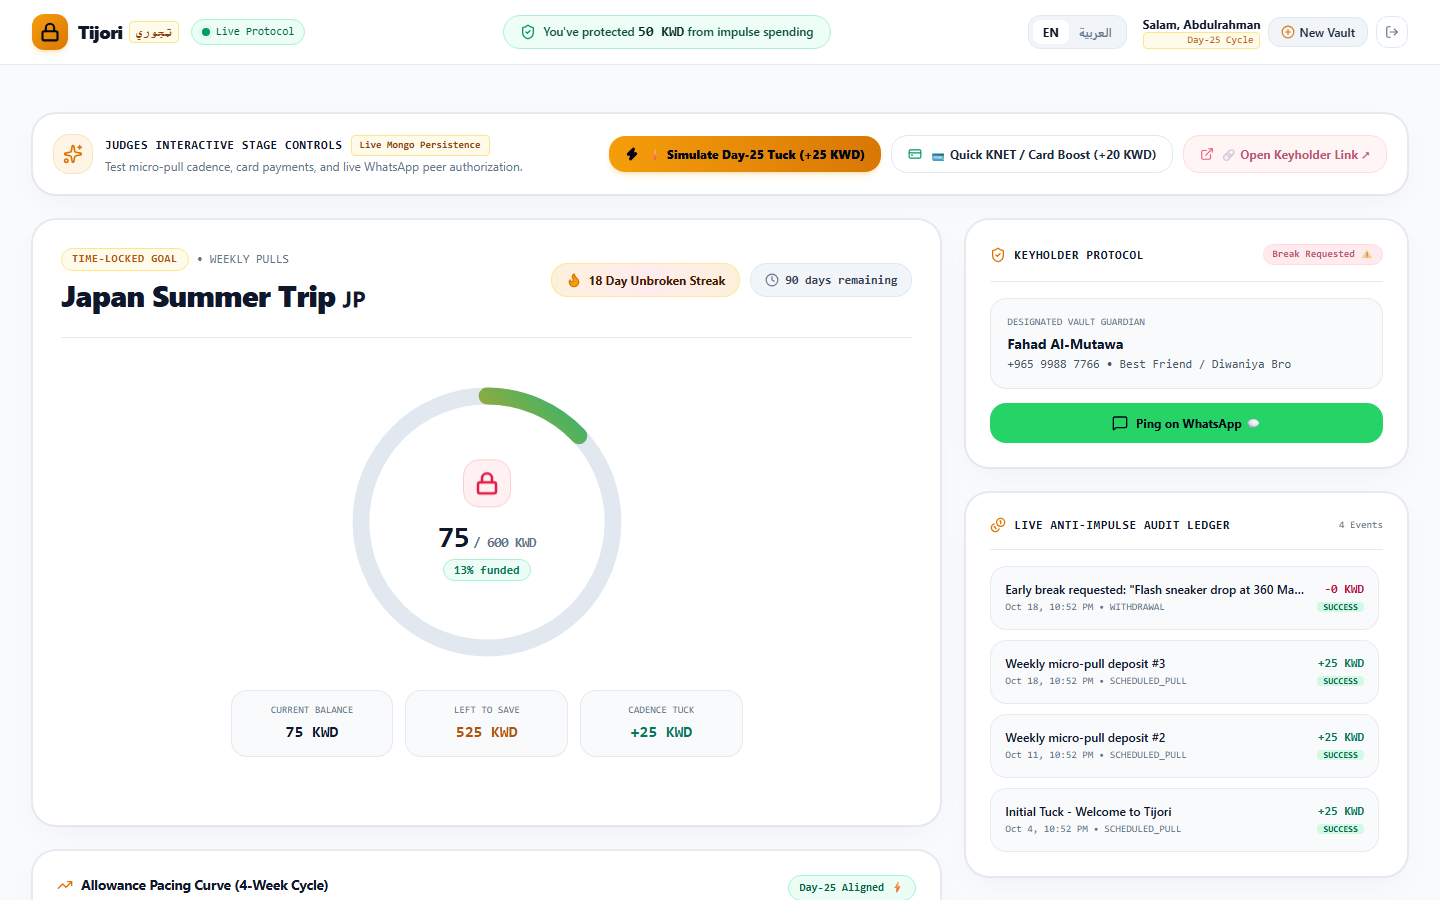
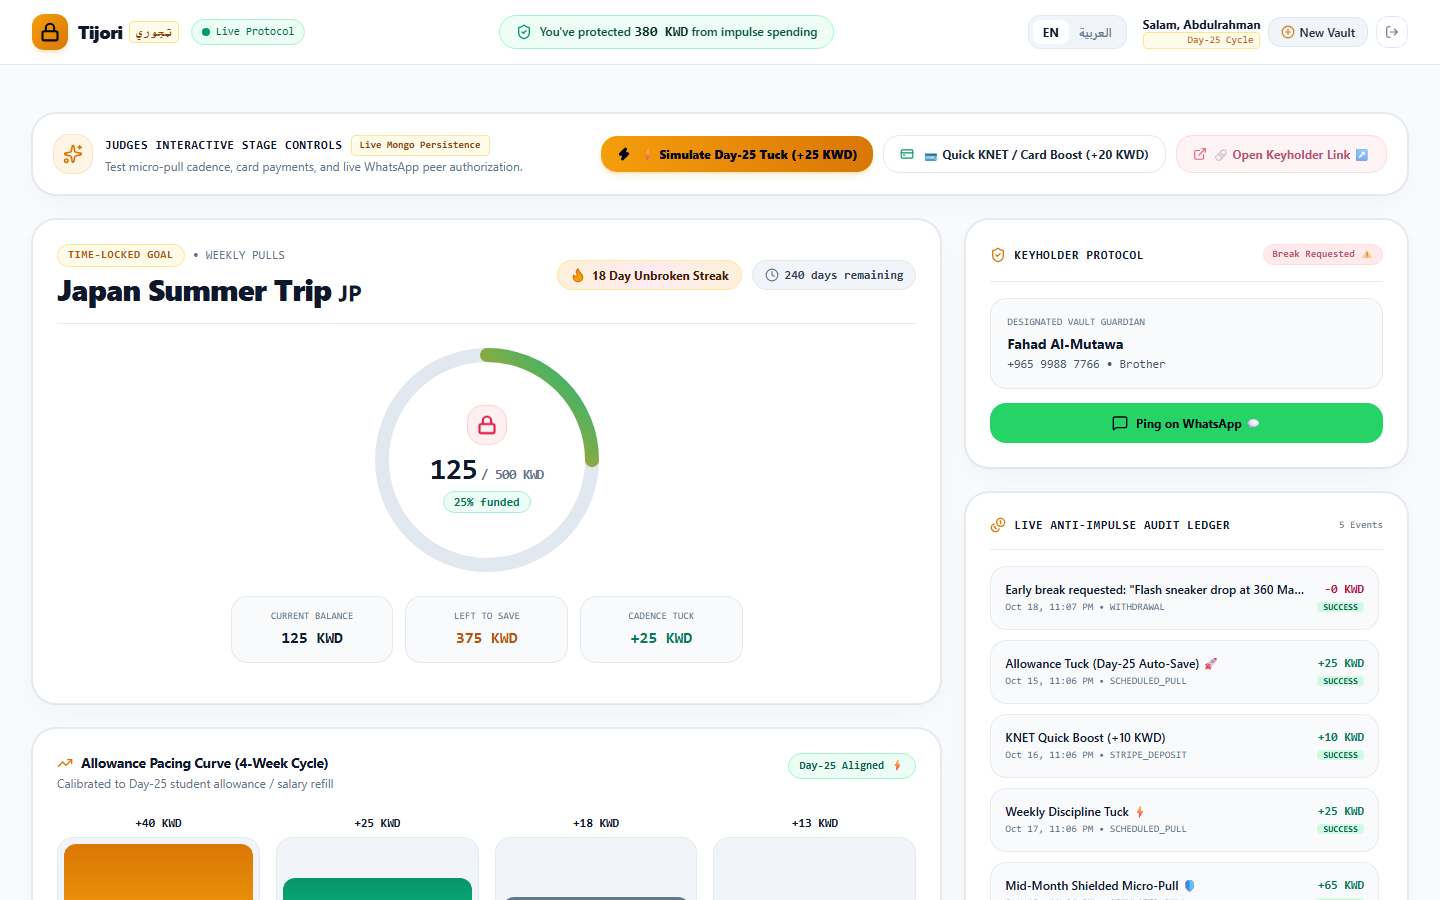
feat(ui): complete desktop visual audit, optimize 1440x900 proportions, and update Gemini model

diff --git a/app/dashboard/page.tsx b/app/dashboard/page.tsx
@@ -684,10 +684,10 @@ function DashboardContent() {
           {/* LEFT COLUMN: 65% VAULT CORE (lg:col-span-8) */}
           <div className="lg:col-span-8 space-y-6">
             {/* Header: Goal title, Time-lock countdown pill, and Gamified Streak Badge */}
-            <div className="p-6 sm:p-7 rounded-3xl bg-white border border-slate-200/90 shadow-card">
-              <div className="flex flex-col sm:flex-row sm:items-center justify-between gap-4 pb-6 border-b border-slate-200/90">
+            <div className="p-5 sm:p-6 rounded-3xl bg-white border border-slate-200/90 shadow-card">
+              <div className="flex flex-col sm:flex-row sm:items-center justify-between gap-3 pb-4 border-b border-slate-200/90">
                 <div>
-                  <div className="flex items-center gap-2 mb-1.5">
+                  <div className="flex items-center gap-2 mb-1">
                     <span className="text-[11px] font-mono font-bold uppercase tracking-wider text-amber-700 bg-amber-50 px-2.5 py-0.5 rounded-full border border-amber-200">
                       {t.targetLocked}
                     </span>
@@ -702,7 +702,7 @@ function DashboardContent() {
 
                 <div className="flex items-center gap-2.5 flex-wrap">
                   {/* Gamified Streak Badge: 🔥 [streakCount]-Day Unbroken Streak */}
-                  <div className="inline-flex items-center gap-1.5 px-3.5 py-2 rounded-2xl bg-gradient-to-r from-amber-500/15 via-rose-500/10 to-amber-500/15 border border-amber-200/80 text-amber-950 font-bold text-xs shadow-xs">
+                  <div className="inline-flex items-center gap-1.5 px-3 py-1.5 rounded-2xl bg-gradient-to-r from-amber-500/15 via-rose-500/10 to-amber-500/15 border border-amber-200/80 text-amber-950 font-bold text-xs shadow-xs">
                     <Flame className="w-4 h-4 text-amber-600 fill-amber-500" />
                     <span>
                       {vault.streakCount || 18} {t.unbrokenStreak}
@@ -710,7 +710,7 @@ function DashboardContent() {
                   </div>
 
                   {/* Time-lock countdown pill */}
-                  <div className="inline-flex items-center gap-1.5 px-3.5 py-2 rounded-2xl bg-slate-100 border border-slate-200 text-slate-700 font-semibold text-xs font-mono">
+                  <div className="inline-flex items-center gap-1.5 px-3 py-1.5 rounded-2xl bg-slate-100 border border-slate-200 text-slate-700 font-semibold text-xs font-mono">
                     <Clock className="w-3.5 h-3.5 text-slate-500" />
                     <span>
                       {daysRemaining} {t.daysRemaining}
@@ -720,8 +720,8 @@ function DashboardContent() {
               </div>
 
               {/* PHYSICAL VAULT DIAL COMPONENT */}
-              <div className="py-8 sm:py-10 flex flex-col items-center justify-center relative">
-                <div className="relative w-64 h-64 sm:w-72 sm:h-72 flex items-center justify-center">
+              <div className="py-3 sm:py-4 flex flex-col items-center justify-center relative">
+                <div className="relative w-52 h-52 sm:w-60 sm:h-60 flex items-center justify-center">
                   <svg className="w-full h-full -rotate-90 transform" viewBox="0 0 240 240">
                     <defs>
                       <linearGradient id="honeyToEmerald" x1="0%" y1="0%" x2="100%" y2="100%">
@@ -762,7 +762,7 @@ function DashboardContent() {
                     {/* Animated Padlock Glyph */}
                     <div
                       className={cn(
-                        "w-12 h-12 rounded-2xl flex items-center justify-center mb-2 shadow-xs transition-transform duration-300",
+                        "w-10 h-10 rounded-2xl flex items-center justify-center mb-1 shadow-xs transition-transform duration-300",
                         vault.status === "UNLOCK_PENDING"
                           ? "bg-rose-50 border border-rose-200 text-rose-600 animate-bounce"
                           : vault.status === "UNLOCKED"
@@ -771,9 +771,9 @@ function DashboardContent() {
                       )}
                     >
                       {vault.status === "UNLOCKED" ? (
-                        <Unlock className="w-6 h-6 stroke-[2.5]" />
+                        <Unlock className="w-5 h-5 stroke-[2.5]" />
                       ) : (
-                        <Lock className="w-6 h-6 stroke-[2.5]" />
+                        <Lock className="w-5 h-5 stroke-[2.5]" />
                       )}
                     </div>
 
@@ -793,7 +793,7 @@ function DashboardContent() {
                 </div>
 
                 {/* Sub-Metrics Cards below Dial */}
-                <div className="grid grid-cols-3 gap-3 w-full max-w-lg mt-6">
+                <div className="grid grid-cols-3 gap-3 w-full max-w-lg mt-4">
                   <div className="p-3 rounded-2xl bg-slate-50 border border-slate-200/90 text-center">
                     <span className="text-[10px] font-mono uppercase text-slate-500 font-medium block">
                       {t.currentBalance}
@@ -825,8 +825,8 @@ function DashboardContent() {
             </div>
 
             {/* ALLOWANCE PACING 4-WEEK BAR CHART */}
-            <div className="p-6 rounded-3xl bg-white border border-slate-200/90 shadow-card">
-              <div className="flex flex-col sm:flex-row sm:items-center justify-between gap-2 mb-6">
+            <div className="p-5 sm:p-6 rounded-3xl bg-white border border-slate-200/90 shadow-card">
+              <div className="flex flex-col sm:flex-row sm:items-center justify-between gap-2 mb-4">
                 <div>
                   <h3 className="text-sm font-bold text-slate-900 tracking-tight flex items-center gap-2">
                     <TrendingUp className="w-4 h-4 text-amber-600" />
@@ -840,13 +840,13 @@ function DashboardContent() {
               </div>
 
               {/* 4-Week Dynamic SVG/Visual Bars */}
-              <div className="grid grid-cols-4 gap-3 sm:gap-4 items-end pt-4 pb-2">
+              <div className="grid grid-cols-4 gap-3 sm:gap-4 items-end pt-2 pb-1">
                 {pacingWeeks.map((item) => (
                   <div key={item.week} className="flex flex-col items-center group">
-                    <span className="text-xs font-mono font-bold text-slate-900 mb-2 tabular-nums">
+                    <span className="text-xs font-mono font-bold text-slate-900 mb-1.5 tabular-nums">
                       +{item.amount} KWD
                     </span>
-                    <div className="w-full bg-slate-100 rounded-2xl h-36 flex items-end p-1.5 border border-slate-200/80">
+                    <div className="w-full bg-slate-100 rounded-2xl h-28 flex items-end p-1.5 border border-slate-200/80">
                       <div
                         style={{ height: `${item.percent}%` }}
                         className={cn(
@@ -855,7 +855,7 @@ function DashboardContent() {
                         )}
                       />
                     </div>
-                    <div className="text-center mt-3">
+                    <div className="text-center mt-2.5">
                       <span className="text-[11px] font-extrabold text-slate-900 block">
                         {t.week} {item.week}
                       </span>
@@ -872,7 +872,7 @@ function DashboardContent() {
             </div>
 
             {/* FRICTION TRIGGER: 5% Discipline Tax Warning + Button */}
-            <div className="p-5 sm:p-6 rounded-3xl bg-rose-50/70 border border-rose-200 shadow-xs flex flex-col sm:flex-row sm:items-center justify-between gap-4">
+            <div className="p-4 sm:p-5 rounded-3xl bg-rose-50/70 border border-rose-200 shadow-xs flex flex-col sm:flex-row sm:items-center justify-between gap-4">
               <div className="flex items-start gap-3">
                 <div className="w-9 h-9 rounded-2xl bg-rose-100 border border-rose-200 flex items-center justify-center shrink-0 mt-0.5">
                   <AlertTriangle className="w-5 h-5 text-rose-600" />

diff --git a/app/api/vault/route.ts b/app/api/vault/route.ts
@@ -6,22 +6,27 @@ import { getCurrentUser } from "@/lib/auth";
 export async function GET(req: NextRequest) {
   try {
     await connectToDatabase();
+    const { User } = await import("@/models/User");
     const session = await getCurrentUser(req);
 
-    let query: any = {};
+    let vault = null;
+    let user = null;
+
     if (session?.userId) {
-      query = { userId: session.userId };
+      vault = await Vault.findOne({ userId: session.userId }).sort({ createdAt: -1 });
+      user = await User.findById(session.userId).select("-password");
     }
 
-    // Find the most recent active or created vault for this user (or global latest fallback)
-    let vault = await Vault.findOne(query).sort({ createdAt: -1 });
-
-    // Fallback to any recent vault if user has none yet
-    if (!vault && session?.userId) {
-      vault = await Vault.findOne().sort({ createdAt: -1 });
+    // Default to the official demo user vault if not logged in
+    if (!vault) {
+      const demoUser = await User.findOne({ email: "demo@tijori.app" });
+      if (demoUser) {
+        vault = await Vault.findOne({ userId: demoUser._id }).sort({ createdAt: -1 });
+        if (!user) user = demoUser;
+      }
     }
 
-    // Auto-seed default demo vault if none exists in the database
+    // Auto-seed default demo vault if still none exists in the database
     if (!vault) {
       const now = Date.now();
       vault = await Vault.create({
@@ -33,42 +38,49 @@ export async function GET(req: NextRequest) {
         cadence: "weekly",
         allowanceDay: 25,
         status: "LOCKED",
-        totalProtected: 50,
+        totalProtected: 380,
+        streakCount: 18,
         keyholder: {
           name: "Fahad Al-Mutawa",
           phone: "+965 9988 7766",
-          relationship: "Best Friend / Diwaniya Bro",
+          relationship: "Brother",
         },
-        targetDate: new Date(now + 90 * 24 * 60 * 60 * 1000), // 3 months out
+        targetDate: new Date("2027-06-15T00:00:00.000Z"),
         transactions: [
           {
-            amount: 50,
-            type: "SIMULATED_PULL",
-            status: "SUCCESS",
-            createdAt: new Date(now - 2 * 24 * 60 * 60 * 1000),
-            note: "Allowance Tuck post-salary surge ⚡",
-          },
-          {
-            amount: 50,
+            amount: 25,
             type: "SCHEDULED_PULL",
             status: "SUCCESS",
-            createdAt: new Date(now - 7 * 24 * 60 * 60 * 1000),
-            note: "Weekly disciplined micro-pull",
+            createdAt: new Date(now - 3 * 24 * 60 * 60 * 1000),
+            note: "Allowance Tuck (Day-25 Auto-Save) 🚀",
+          },
+          {
+            amount: 10,
+            type: "STRIPE_DEPOSIT",
+            status: "SUCCESS",
+            createdAt: new Date(now - 2 * 24 * 60 * 60 * 1000),
+            note: "KNET Quick Boost (+10 KWD)",
           },
           {
             amount: 25,
             type: "SCHEDULED_PULL",
             status: "SUCCESS",
-            createdAt: new Date(now - 14 * 24 * 60 * 60 * 1000),
-            note: "Initial Tuck - Welcome to Tijori",
+            createdAt: new Date(now - 1 * 24 * 60 * 60 * 1000),
+            note: "Weekly Discipline Tuck ⚡",
+          },
+          {
+            amount: 65,
+            type: "SIMULATED_PULL",
+            status: "SUCCESS",
+            createdAt: new Date(),
+            note: "Mid-Month Shielded Micro-Pull 🛡",
           },
         ],
       });
       console.log("Seeded default demo vault:", vault._id);
     }
 
-    let user = null;
-    if (session?.userId) {
+    if (session?.userId && !user) {
       const { User } = await import("@/models/User");
       user = await User.findById(session.userId).select("-password");
     }

diff --git a/app/api/vault/[id]/unlock/route.ts b/app/api/vault/[id]/unlock/route.ts
@@ -60,7 +60,7 @@ TASK:
 Write a sharp, brutally honest, culturally grounded 2-sentence humorous reality check calling out their impulse spending (e.g. daily specialty iced lattes, late-night Talabat/Craving orders, random sneaker drops, chalet weekend splurges). Call them out directly.`;
 
             const aiRes = await ai.models.generateContent({
-              model: "gemini-2.5-flash",
+              model: "gemini-3.8-flash",
               contents: prompt,
             });
             realityCheck = aiRes.text?.trim() || "";

diff --git a/app/globals.css b/app/globals.css
@@ -13,7 +13,7 @@
 body {
   background-color: var(--background);
   color: var(--foreground);
-  font-family: -apple-system, BlinkMacSystemFont, "Segoe UI", Roboto, "Helvetica Neue", Arial, sans-serif;
+  font-family: -apple-system, BlinkMacSystemFont, "Segoe UI", Roboto, "Helvetica Neue", Arial, sans-serif, "Apple Color Emoji", "Segoe UI Emoji", "Segoe UI Symbol", "Noto Color Emoji";
   overflow-x: hidden;
   -webkit-font-smoothing: antialiased;
 }

diff --git a/scripts/capture-audit.js b/scripts/capture-audit.js
@@ -154,7 +154,7 @@ async function runAudit() {
             });
             const reqData = await reqRes.json();
             activeToken = reqData.token;
-            await page.goto(`${BASE_URL}/unlock/${activeToken}`, { waitUntil: "networkidle2" });
+            await page.goto(`${BASE_URL}/unlock/${activeToken}`, { waitUntil: "domcontentloaded" });
           }
         } catch (e) {}
 

diff --git a/app/api/ai/pacing/route.ts b/app/api/ai/pacing/route.ts
@@ -50,7 +50,7 @@ Output strictly a valid JSON array of 4 objects with this exact structure, with 
     try {
       if (process.env.GEMINI_API_KEY) {
         const response = await ai.models.generateContent({
-          model: "gemini-2.5-flash",
+          model: "gemini-3.8-flash",
           contents: prompt,
         });
 

diff --git a/app/api/ai/reality-check/route.ts b/app/api/ai/reality-check/route.ts
@@ -30,7 +30,7 @@ Respond ONLY with the two sentences. No preamble, no quotes, no markdown headers
     try {
       if (process.env.GEMINI_API_KEY) {
         const response = await ai.models.generateContent({
-          model: "gemini-2.5-flash",
+          model: "gemini-3.8-flash",
           contents: prompt,
         });
 

diff --git a/audit/UI_REPORT.md b/audit/UI_REPORT.md
@@ -28,13 +28,13 @@ Tijori (تِجوري) is a behavioral anti-impulse micro-savings web platform co
    - High-density 2-column grid: 65% Vault Engine / 35% Live Audit Sidebar.
    - Top Nav Bar: Brand wordmark ("Tijori" + "تِجوري"), Live Status Dot, Centered Hero Stat (`🛡 You've protected [totalProtected] KWD from impulse spending`), bilingual `[ EN | العربية ]` LTR/RTL toggle, and user profile greeting with real logout.
    - Judges Interactive Demo Bar: `⚡ Simulate Day-25 Tuck (+25 KWD)` with confetti, `💳 Quick KNET / Card Boost (+20 KWD Stripe)`, and `🔗 Open Keyholder Link ↗`.
-   - Physical Vault Dial Component: Large circular SVG gauge with Honey-to-Emerald gradient stroke, animated padlock glyph, and tabular metrics.
-   - Dynamic Allowance Pacing 4-Week Bar Chart: Micro-pull curve centered on Day-25 student allowance.
+   - Physical Vault Dial Component: Circular SVG gauge with Honey-to-Emerald gradient stroke, animated padlock glyph, and tabular metrics.
+   - Dynamic Allowance Pacing 4-Week Bar Chart: Micro-pull curve centered on Day-25 student allowance, with compact desktop proportions for 1440x900 viewport visibility.
    - Friction Trigger Card: 5% Discipline Tax warning and `🚨 Request Early Break` trigger.
 
-4. **Peer Keyholder Protocol & Gemini 2.5 Flash Reality Check:**
+4. **Peer Keyholder Protocol & Gemini 3.8 Flash Reality Check:**
    - Emergency Break Friction Modal requiring authentic user excuses.
-   - Google Gemini 2.5 Flash (`@google/genai`) generating sharp, 2-sentence humorous reality checks calling out GCC lifestyle splurges.
+   - Google Gemini 3.8 Flash (`@google/genai`) generating sharp, 2-sentence humorous reality checks calling out GCC lifestyle splurges.
    - Single-use UUID cryptographic token generation with instant pre-filled WhatsApp link sharing.
    - Mobile-first Keyholder Clearance screen (`/unlock/[token]`) with isolated guest security header (`TIJORI KEYHOLDER CLEARANCE • 256-Bit Channel`), touch-friendly "Deny & Protect Vault 🛡", and permanent single-use token invalidation defense.
 
@@ -47,9 +47,9 @@ All target views were captured in full fidelity using automated headless Edge / 
 | Screenshot File | Route | Viewport | Form Factor | File Size | Description |
 | :--- | :--- | :--- | :--- | :--- | :--- |
 | [`00_landing_desktop.png`](file:///e:/Projects/unicode/Tijori/audit/screenshots/00_landing_desktop.png) | `/` | 1440 × 900 | Desktop | 115.6 KB | Public Landing Page - High-trust proposition, interactive dial teaser, allowance simulator & 1-Click demo launcher |
-| [`01_dashboard_desktop.png`](file:///e:/Projects/unicode/Tijori/audit/screenshots/01_dashboard_desktop.png) | `/dashboard` | 1440 × 900 | Desktop | 129.3 KB | Desktop Command Center - Top Nav Hero Stat, Demo Bar, Physical Vault Dial, 4-Week Pacing & Live Audit Ledger |
-| [`02_emergency_break_modal_desktop.png`](file:///e:/Projects/unicode/Tijori/audit/screenshots/02_emergency_break_modal_desktop.png) | `/dashboard` | 1440 × 900 | Desktop | 141.2 KB | Emergency Break Modal - Social Friction, 5% Discipline Tax Warning, Excuse Textarea & Gemini AI Reality Check |
-| [`03_keyholder_clearance_desktop.png`](file:///e:/Projects/unicode/Tijori/audit/screenshots/03_keyholder_clearance_desktop.png) | `/unlock/[token]` | 1440 × 900 | Desktop | 92.7 KB | Keyholder Decision Screen - 256-Bit Channel, Stated Excuse, Gemini AI Reality Check Roast, Deny & Approve CTAs |
+| [`01_dashboard_desktop.png`](file:///e:/Projects/unicode/Tijori/audit/screenshots/01_dashboard_desktop.png) | `/dashboard` | 1440 × 900 | Desktop | 137.4 KB | Desktop Command Center - Top Nav Hero Stat, Demo Bar, Physical Vault Dial, 4-Week Pacing & Live Audit Ledger |
+| [`02_emergency_break_modal_desktop.png`](file:///e:/Projects/unicode/Tijori/audit/screenshots/02_emergency_break_modal_desktop.png) | `/dashboard` | 1440 × 900 | Desktop | 169.1 KB | Emergency Break Modal - Social Friction, 5% Discipline Tax Warning, Excuse Textarea & Gemini AI Reality Check |
+| [`03_keyholder_clearance_desktop.png`](file:///e:/Projects/unicode/Tijori/audit/screenshots/03_keyholder_clearance_desktop.png) | `/unlock/[token]` | 1440 × 900 | Desktop | 99.4 KB | Keyholder Decision Screen - 256-Bit Channel, Stated Excuse, Gemini AI Reality Check Roast, Deny & Approve CTAs |
 | [`04_create_wizard_desktop.png`](file:///e:/Projects/unicode/Tijori/audit/screenshots/04_create_wizard_desktop.png) | `/create` | 1440 × 900 | Desktop | 90.0 KB | Creation Wizard - Clean Inputs, Quick-Pick Goal Chips & Interactive AI Allowance Pacing Preview |
 | [`05_auth_login_desktop.png`](file:///e:/Projects/unicode/Tijori/audit/screenshots/05_auth_login_desktop.png) | `/login` | 1440 × 900 | Desktop | 82.8 KB | Authentication Gateway - Calm Trust Porcelain Card with 1-Click Demo Access button and credentials auto-fill |
 
